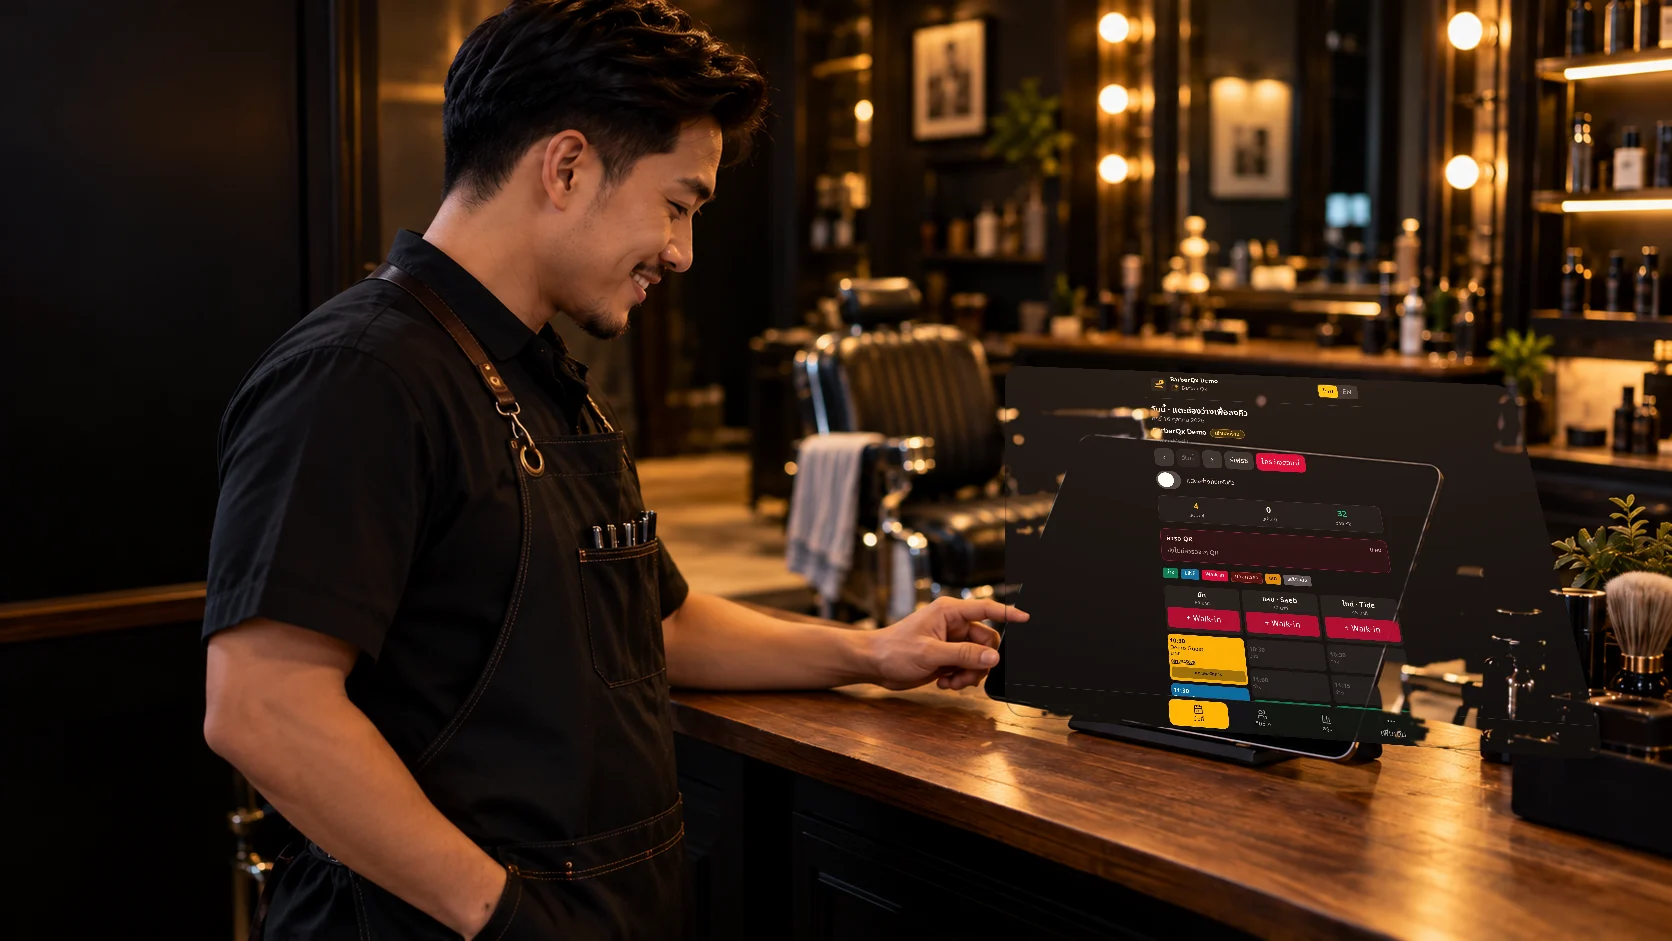
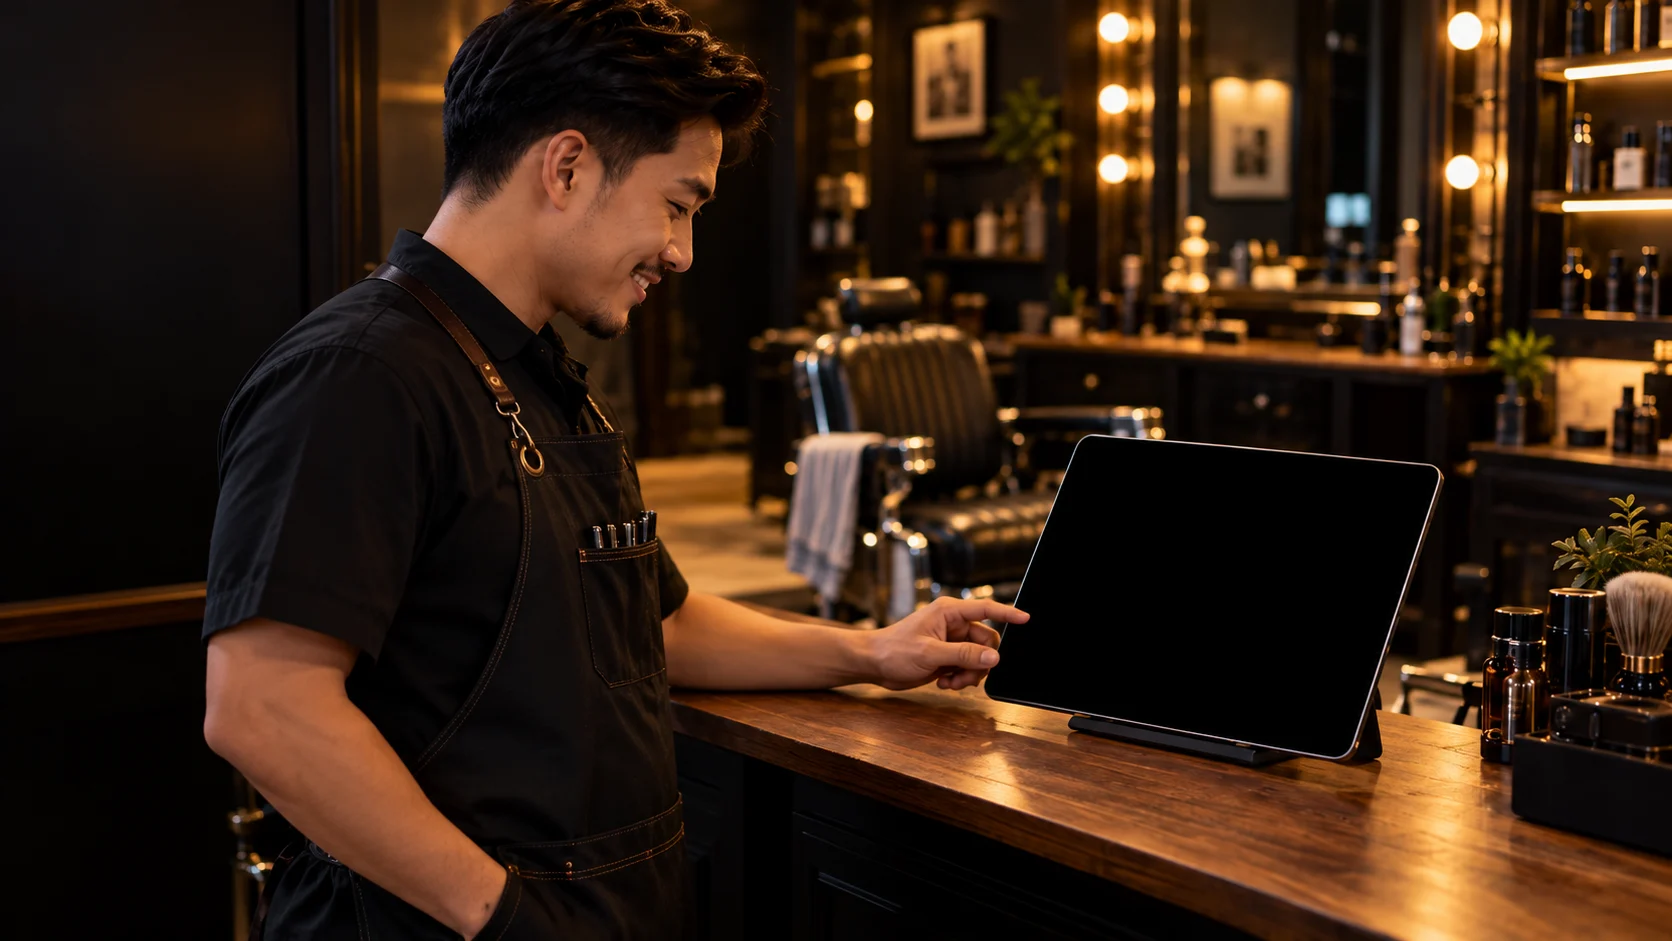
Use Tommy barber-iPad plate blank; drop queue-board composite

Changed region(s): [[0.5909, 0.3698, 0.933, 0.8013], [0.622, 0.7396, 0.6531, 0.7705]]

diff --git a/src/lib/marketing/layout.test.ts b/src/lib/marketing/layout.test.ts
@@ -174,7 +174,7 @@ describe("marketing layout split", () => {
     assert.equal(marketingPhotoSlots.barberDesktop.height, 941);
     assert.match(
       marketingPhotoSlots.barberDesktop.artNote,
-      /barber-ipad|admin-queue-landscape|composite-barber-ipad/,
+      /barber-ipad|blank black screen/,
     );
     assert.equal(
       marketingPhotoSlots.barberMobile.src,
@@ -191,18 +191,6 @@ describe("marketing layout split", () => {
     assert.ok(
       existsSync(resolve(root, "../public/marketing/photos/barber-desktop.ai-source.png")),
       "barber-desktop.ai-source.png missing (Tommy plate)",
-    );
-    assert.ok(
-      existsSync(resolve(root, "../public/marketing/screens/admin-queue-landscape.webp")),
-      "admin-queue-landscape.webp missing",
-    );
-    assert.ok(
-      existsSync(resolve(root, "../scripts/composite-barber-ipad-queue.py")),
-      "barber iPad composite script missing",
-    );
-    assert.ok(
-      existsSync(resolve(root, "../scripts/capture-admin-queue-landscape.mjs")),
-      "landscape admin capture script missing",
     );
     assert.ok(
       existsSync(resolve(root, "../public/marketing/photos/barber-mobile.webp")),

diff --git a/src/lib/marketing/photo-slots.ts b/src/lib/marketing/photo-slots.ts
@@ -75,9 +75,9 @@ export const marketingPhotoSlots: Record<MarketingPhotoSlotId, MarketingPhotoSlo
     width: 1672,
     height: 941,
     ratio: "16:9",
-    labelTh: "รูปช่างชี้บอร์ดคิวบน iPad เดสก์ท็อป 16:9 1672×941",
+    labelTh: "รูปช่างชี้ iPad ที่เคาน์เตอร์ เดสก์ท็อป 16:9 1672×941",
     artNote:
-      "1672×941 · Tommy barber-ipad plate · admin-queue-landscape on glass (redo: capture-admin-queue-landscape.mjs + composite-barber-ipad-queue.py) · PNG fallback /marketing/photos/barber-desktop.png",
+      "1672×941 · Tommy barber-ipad plate as-is (blank black screen) · PNG fallback /marketing/photos/barber-desktop.png · screen mockup TBD after admin redesign",
   },
   barberMobile: {
     id: "barberMobile",
